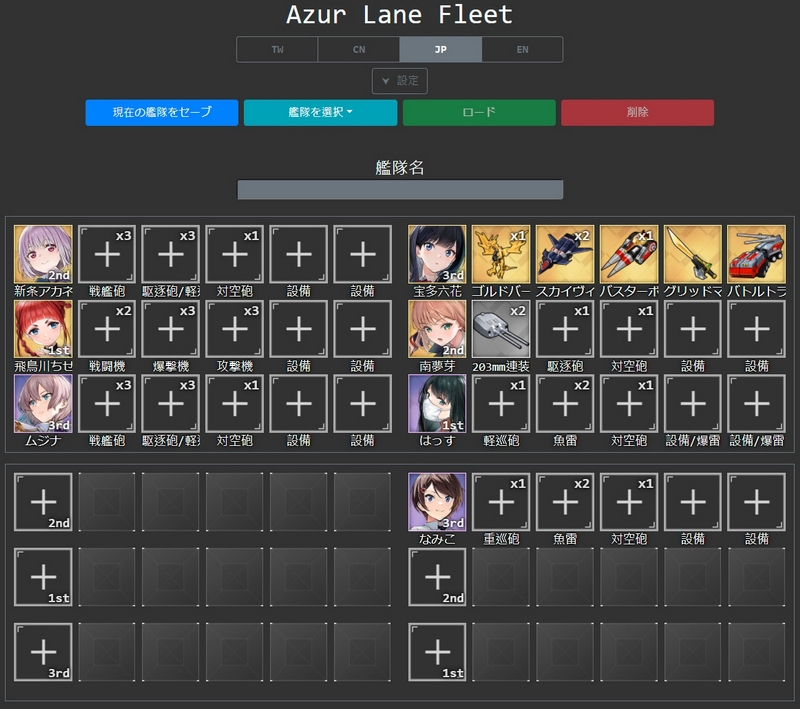
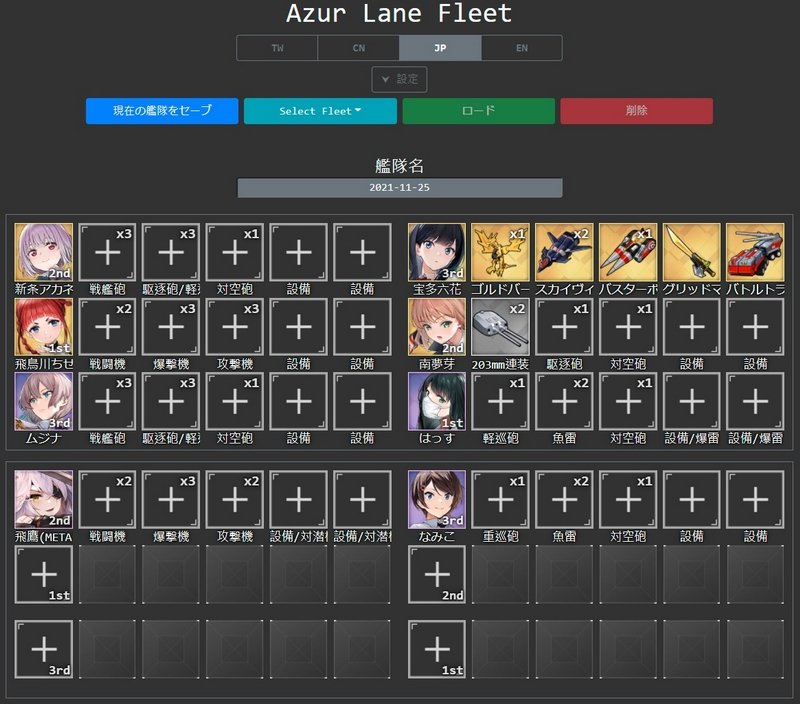
forgot the new meta ship...

diff --git a/README.md b/README.md
@@ -3,7 +3,7 @@ The goal of this project
 Is just for easily share fleet configuration in one shot  
 ![](https://x94fujo6rpg.github.io/AzurLaneFleet/ui/screenshots.jpg)  
 ```
-No4RgBgDg3IGigTgCy0UgzANghza+ATHsprALrzjSwQCseSYkeb8bVNMs5H-7CBS7c6JARKHVIPCLkkCuMugHZBk4fDAjRsQus7UDiows4jjh4JY5cbQqtooBCCADoGzgCZRMYAKbYKACGXvRY-vQqAMZQ2FDR9ET04f4qKgBGSFBeQA
+No4RgBgDg3IGigTgCy0UgzANghza+ATHsprALrzjSwQCseSYkeb8bVNMs5H-7CBS7c6JARKHVIPCLkkCuMugHZBk4fDAjRsQus7UDiows4ika3AmNTgtjlwdCq2igEIIAOgbuARgAm9GAqKkT0AGZQ4REAhihEUADGfkR+SQCmKSpg2GCpYEA
 ```
 
 ### [Chinese WIKI version](https://wiki.biligame.com/blhx/%E8%88%B0%E9%98%9F%E6%A8%A1%E6%8B%9F%E5%99%A8) is  online ###  
